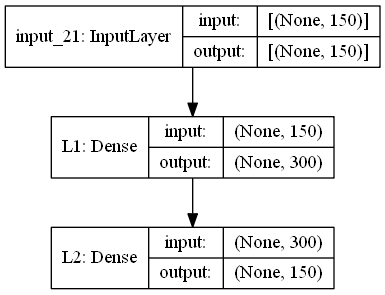
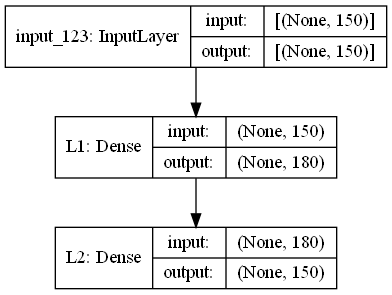
update optimal DNN + graphs
- plot all raw results interactively

diff --git a/ECG_analysis.py b/ECG_analysis.py
@@ -13,13 +13,15 @@ Notes:
     
     ann.show_ann_classes()
     
-Interrogations:
-    1- Is it better to 1-hot encode for training or can we just have one model output ranging from 0 to 1?
-    2- Which data to feed into the model?
-        - how much does the size of the rolling window impact model performance?
-        - strategy:
-            + assign beginning of time trace for training, the rest for testing
-            + get random chunks of data of size period_mean
+1- Parameters impoacting the model
+    - batch size has little influence
+    - 2 layers is much better than 1 layer
+    - size of first layer can be relatively small compared to the number of data points in window
+    - size of the rolling window impact model performance?
+    - down sampling?
+    
+TO DO:
+    - plot the packets chronologically to "locate" them more easily
     
 
 """
@@ -46,8 +48,8 @@ InteractiveShell.ast_node_interactivity = "all"
 
 
 # %% LOAD FILES
-# path = "D:\Ludo\Docs\programming\CAS_applied_data_science\CAS-Applied-Data-Science-master\Module-6\Electrocardiogram_analysis\Assignments\ECG\www.physionet.org\physiobank\database".replace("\\", "/")
-path = r"C:\Users\ludovic.lereste\Documents\CAS_applied_data_science\CAS-Applied-Data-Science-master\Module-6\Electrocardiogram_analysis\Assignments\ECG\www.physionet.org\physiobank\database".replace("\\", "/")
+path = "D:\Ludo\Docs\programming\CAS_applied_data_science\CAS-Applied-Data-Science-master\Module-6\Electrocardiogram_analysis\Assignments\ECG\www.physionet.org\physiobank\database".replace("\\", "/")
+# path = r"C:\Users\ludovic.lereste\Documents\CAS_applied_data_science\CAS-Applied-Data-Science-master\Module-6\Electrocardiogram_analysis\Assignments\ECG\www.physionet.org\physiobank\database".replace("\\", "/")
 os.chdir(path)
 
 record = wfdb.rdrecord("mitdb/100")
@@ -155,6 +157,8 @@ p_ts_packets_test = p_ts_packets[int(n_inputs*perc_split):-1]
 
 # %% MODEL 1: Dense neural network - simplest model
 # Build model
+d_mult = "single_layer"
+
 d_input = ecg_packets.shape[1]
 x = tf.keras.layers.Input(dtype='float64', shape=d_input)
    
@@ -175,10 +179,12 @@ model.compile(optimizer='Adam',
 
 # %% MODEL 2: Dense neural network - more complex
 # Build model
+d_mult = 1.2
+
 d_input = ecg_packets.shape[1]
 x = tf.keras.layers.Input(dtype='float64', shape=d_input)
-   
-lay_1 = tf.keras.layers.Dense(units=d_input*2, activation='relu', name='L1')(x)
+
+lay_1 = tf.keras.layers.Dense(units=int(d_input*d_mult), activation='relu', name='L1')(x)
 lay_2 = tf.keras.layers.Dense(units=d_input, activation='sigmoid', name='L2')(lay_1)
 
 #prediction: probability->integer
@@ -199,7 +205,7 @@ start = time.time()
 hist = model.fit(x=ecg_packets_train,
                     y=p_ts_packets_train,
                     epochs=50,
-                    batch_size=100,
+                    batch_size=50,
                     validation_data=(ecg_packets_test, p_ts_packets_test))
 print(time.time()-start)
 
@@ -207,35 +213,64 @@ print(time.time()-start)
 fig, axs = plt.subplots(1, 2, figsize=(10,5))
 axs[0].plot(hist.epoch, hist.history['loss'])
 axs[0].plot(hist.epoch, hist.history['val_loss'])
-axs[0].legend(('training loss', 'validation loss'), loc='lower right')
+axs[0].legend(('training loss', 'validation loss'), loc='upper right')
+
 axs[1].plot(hist.epoch, hist.history['binary_accuracy'])
 axs[1].plot(hist.epoch, hist.history['val_binary_accuracy'])
+axs[1].legend(('training accuracy', 'validation accuracy'),
+              title=f"batch size={hist.params['batch_size']}\n"
+              f"validation accuracy={hist.history['val_binary_accuracy'][-1]:.3f}",
+              loc='lower right')
 
-axs[1].legend(('training accuracy', 'validation accuracy'), loc='lower right')
+fig.suptitle(f"packet length = {packet_length}\n"
+             f"down sampling = {sampling}\n"
+             f"layer_1 dimension = {d_input}*{d_mult} = {int(d_input*d_mult)}")
 plt.show()
 
 # %% EXAMINE RESULTS
-pred_test = model.predict(ecg_packets_test)
+data = ecg_packets_test
+data_ann = p_ts_packets_test
+pred_test = model.predict(data)
 
-fig = plt.figure()
 n_rows = 4
 n_cols = 6
-gs = fig.add_gridspec(n_rows+1, n_cols)
+n_plots = n_rows * n_cols
+fig, axs = plt.subplots(nrows=n_rows, ncols=n_cols, sharey=True)
 plt.get_current_fig_manager().window.state('zoomed')
+plt.subplots_adjust(top=0.90)
 
-# ax_slider = plt.subplot(1, )
-# slider_packet = Slider(axs)
-for i, ax in enumerate(gs[n_cols:-1]):
-    ax.plot(ecg_packets_test[i, :])
-    ax.plot(p_ts_packets_test[i, :])
-    ax.plot(p_ts_packets_test[i, :]*-1, color='orange')
-    ax.plot(pred_test[i, :])
+# inititate plot lines (ls_xxx) that will later be updated by the slider
+ls_data = []
+ls_data_ann = []
+ls_data_ann2 = []
+ls_pred_test = []
+for i, ax in enumerate(axs.flat):
+    ls_data.append(ax.plot(data[i, :]))
+    ls_data_ann.append(ax.plot(data_ann[i, :]))
+    ls_data_ann2.append(ax.plot(data_ann[i, :]*-1, color='orange'))
+    ls_pred_test.append(ax.plot(pred_test[i, :]))
     
     ax.set_xticklabels([])
     ax.set_yticklabels([])
+    ax.set_ylim(ymin=-1.2, ymax=1.3)
 plt.subplots_adjust(wspace=0, hspace=0)
 
+ax_slider = plt.axes([0.25, 0.95, 0.65, 0.03])
+slider_packet = Slider(ax=ax_slider,
+                       label='Test packet',
+                       valmin=0,
+                       valmax=data.shape[0]-n_plots,
+                       valstep=n_plots,
+                       valinit=0)
 
+def update_slider(val):
+    for i in np.arange(n_plots):
+        ls_data[i][0].set_ydata(data[i+val, :])
+        ls_data_ann[i][0].set_ydata(data_ann[i+val, :])
+        ls_data_ann2[i][0].set_ydata(data_ann[i+val, :]*-1)
+        ls_pred_test[i][0].set_ydata(pred_test[i+val, :])
+        
+slider_packet.on_changed(update_slider)
 # %% PREDICT ENTIRE ECG
 
 
